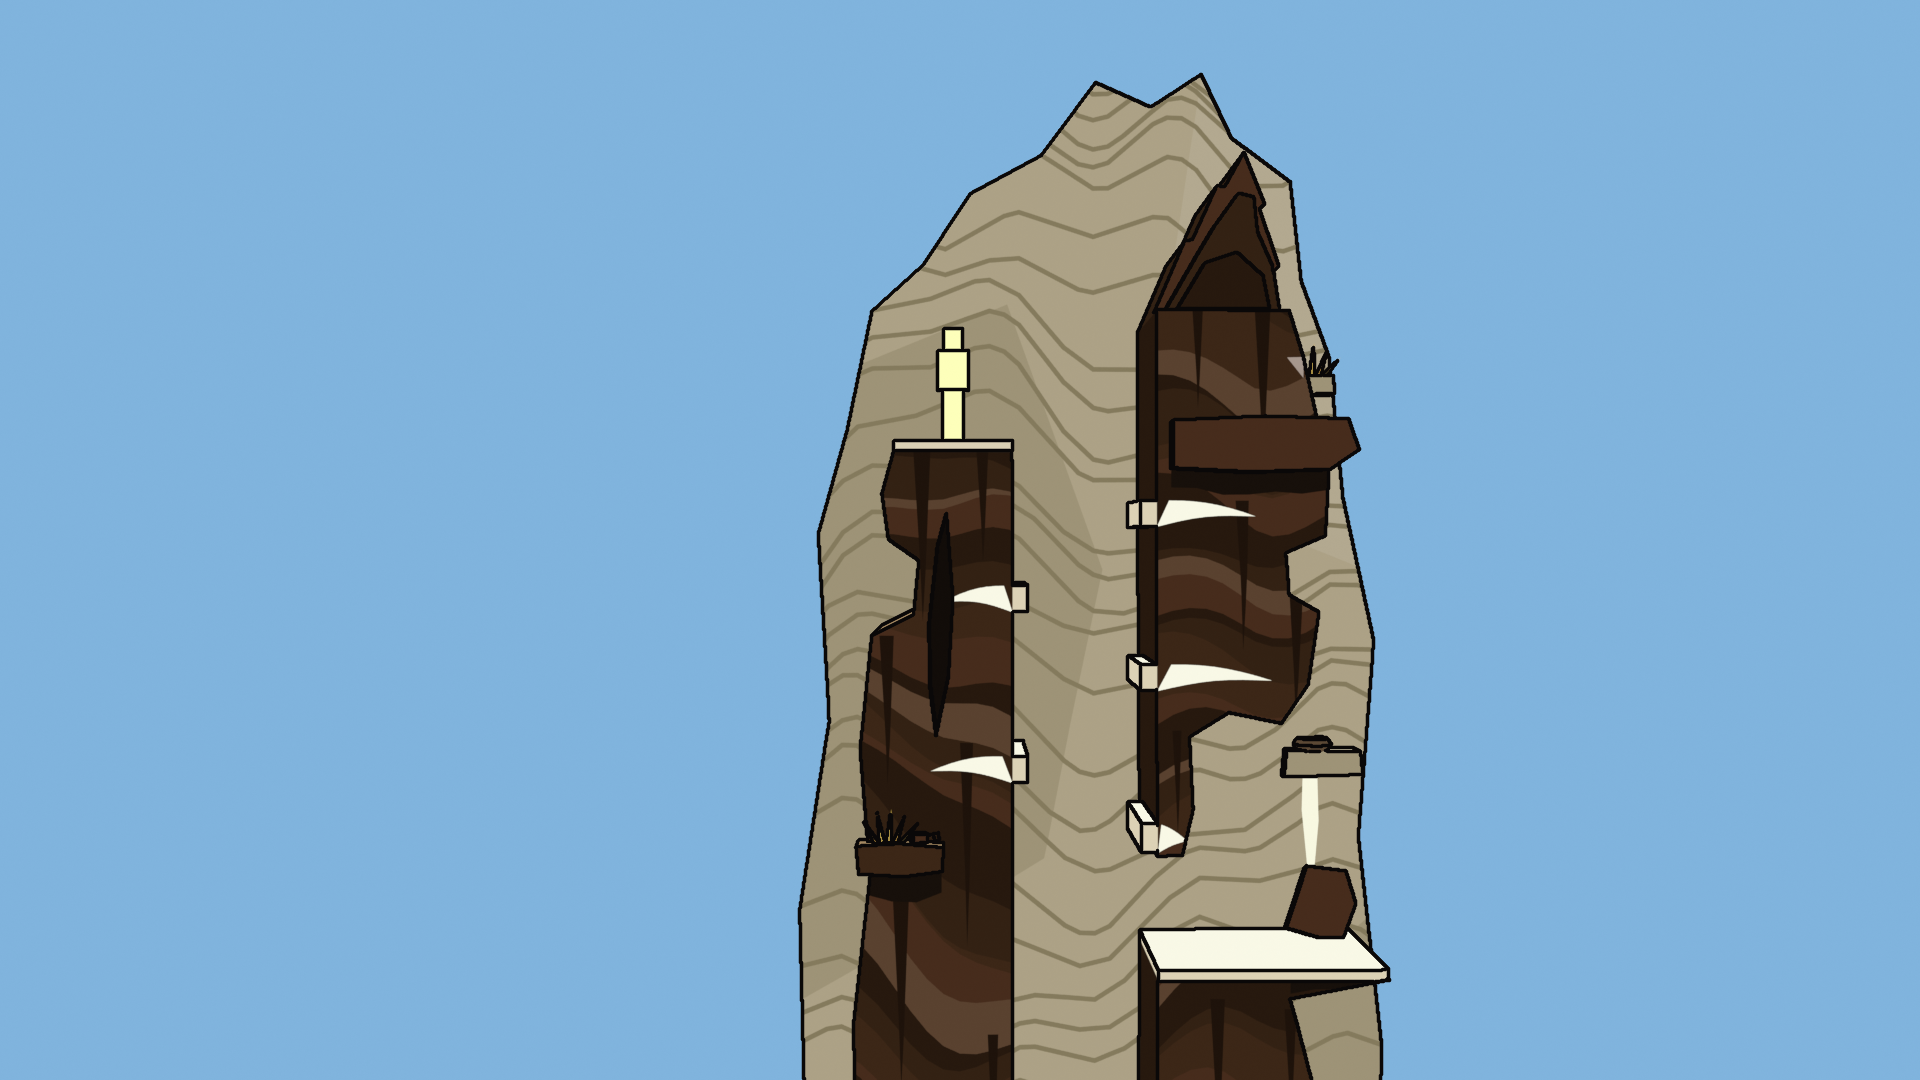
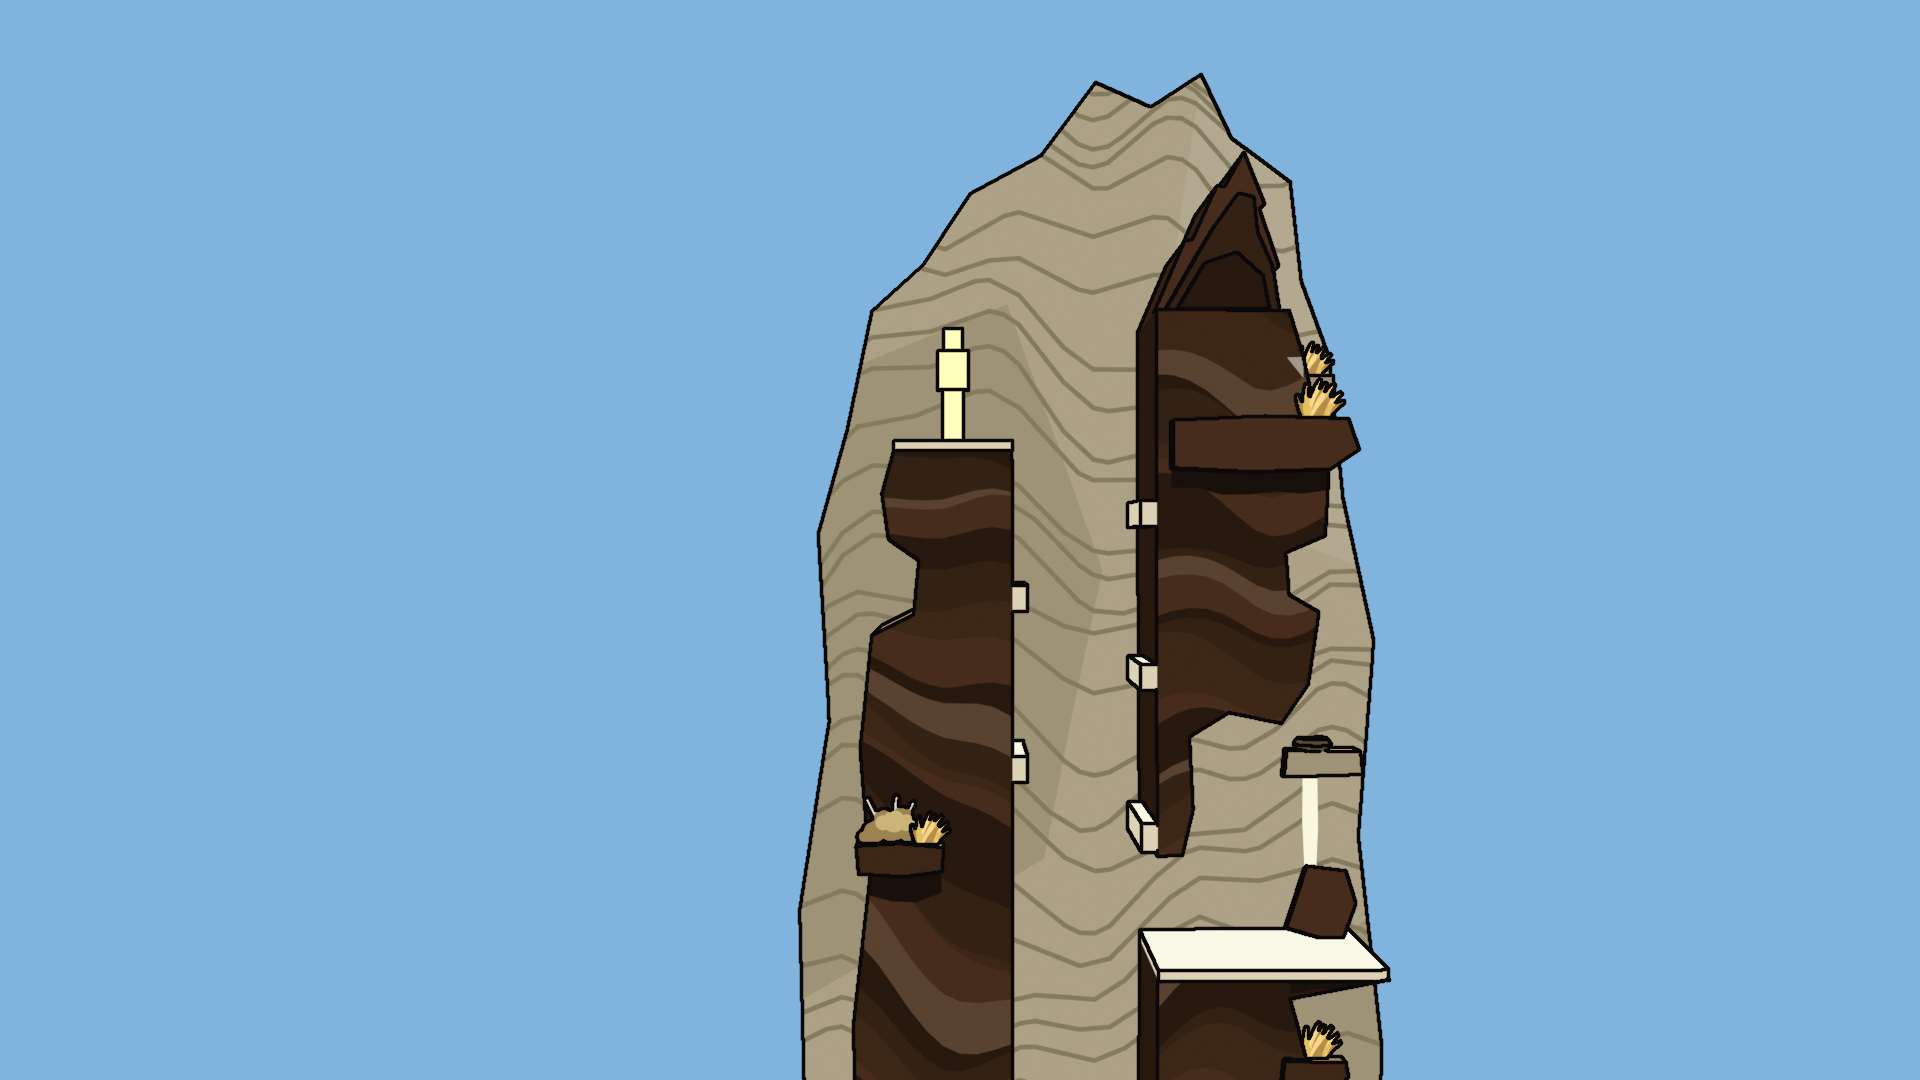
Peak design: the walls rule after Parker's words to thread A (no dark recess; small outcrops with each biome's own painted plants); the example's fourth round as the reference

diff --git a/docs/peak/playtest/design/ANSWERS.md b/docs/peak/playtest/design/ANSWERS.md
@@ -180,3 +180,5 @@ Asked one by one. His exact words where he typed them; "Picked" where he chose a
 Not asked; I take the designers' own answers unless he objects: on the cliffs, the town built the trail and the cableway, one frozen climber sits on the Balcón, flag poles stand behind the climb, a wind sock on the porch of 7.8, the tea cave is open at the front, the scaffold's legs come down behind Los Burros as struts. On the cableway: the frog is the last passenger in a parked gondola, no wavy wind lines where no wind pushes, no icicles on the high station, the zip line is a plain catch and ride. On the glacier: the frog's snow hole, the new serac grows bare and gets its snow last, canes with paper flags, the avalanche chute's two stones as today. On the storm ridge: lightning steel is pale blue-grey and the headwall's rust-orange rungs are never struck, rain leans with each wind band, a painted row of far towers, wind on the cabin's porch, torn paper ends behind Gendarmes, the balloon's neck solid, a broken rung swings back up. On the summit: ropes red, cream and jade, the tea frog hangs the paper and lays the marigolds, no wind on the tea shop's doorstep, a tall staff behind the bell frame for the paper.
 
 **On the walls example's second round, a little later the same night** (with a drawing over it circling the dark tapered streaks and the white wedge-shaped tails of the hold bands): "this is looking good but it does not need these random triangles", "just the painted lines look lovely", "but overall this is a very good direction". So: long wavy painted lines and bands, yes. Nothing painted that tapers to a point: no rain-streak wedges, no hold band that thins away across the face.
+
+**To thread A directly, on the walls example's third and fourth rounds (as thread A reported them to me):** with the fin's dark joint slot circled, "this looks MUCH better. Get rid of this part too so it all looks painted like that. I also love the little foreground out croppings, feel free to put little plants like the painted plants in the foreground of the Station had." And: "I mean you will want to make new ones for various biomes, but that is the style I mean. You don't have to re use the old one. But yea you got the overall look looking good, you are" (it ends there). To me afterwards: "the painted look is looking very nice". So: no dark recess cut into a painted face; small outcrops with plants are wanted; every biome gets its own flat painted plants in the station foreground plants' style.

diff --git a/docs/peak/playtest/design/BRIEF.md b/docs/peak/playtest/design/BRIEF.md
@@ -171,9 +171,19 @@ How a wall or a mass is made:
   triangles ... just the painted lines look lovely").** Nothing painted tapers to a point:
   no rain streak that narrows down the face, no stain shaped like a wedge, no hold band
   that thins away across the wall. Lines and bands only.
-- **A few big breaks are real shape,** and only those get ink: one overhang with a painted
-  shadow under it, one deep recess or opened joint, one ledge with something on it, one
-  leaning slab or fallen block. They sit inside the game's frame, not below it.
+- **A few big breaks are real shape,** and only those get ink: an overhang with a painted
+  shadow under it, a ledge with something on it, a leaning slab or fallen block. They sit
+  inside the game's frame, not below it. **No dark slot or recess cut into a face**
+  (Parker, of the example's opened joint: "Get rid of this part too so it all looks painted
+  like that").
+- **Little outcrops, with plants.** Parker: "I also love the little foreground out
+  croppings, feel free to put little plants like the painted plants in the foreground of
+  the Station had." So a wall keeps a few small outcrops standing out of it, and they carry
+  life: plants made for that biome, each one flat painted card (its parts flush colours on
+  one plane, so only its outline is inked), in the style of the station's foreground
+  plants. Of those plants he said: "you will want to make new ones for various biomes, but
+  that is the style I mean. You don't have to re use the old one." Each biome's sheet says
+  what grows on its walls.
 - **The outline is designed.** Away from the holds and the tops you stand on, the edge may
   move up to 0.8 m: it leans, tapers, is notched where a piece has gone, and has no long
   ruled level or upright edge. The holds, the standing tops and the faces of any gap you

diff --git a/docs/peak/playtest/design/SHEET_BRIEF.md b/docs/peak/playtest/design/SHEET_BRIEF.md
@@ -80,9 +80,19 @@ How a wall or a mass is made:
   triangles ... just the painted lines look lovely").** Nothing painted tapers to a point:
   no rain streak that narrows down the face, no stain shaped like a wedge, no hold band
   that thins away across the wall. Lines and bands only.
-- **A few big breaks are real shape,** and only those get ink: one overhang with a painted
-  shadow under it, one deep recess or opened joint, one ledge with something on it, one
-  leaning slab or fallen block. They sit inside the game's frame, not below it.
+- **A few big breaks are real shape,** and only those get ink: an overhang with a painted
+  shadow under it, a ledge with something on it, a leaning slab or fallen block. They sit
+  inside the game's frame, not below it. **No dark slot or recess cut into a face**
+  (Parker, of the example's opened joint: "Get rid of this part too so it all looks painted
+  like that").
+- **Little outcrops, with plants.** Parker: "I also love the little foreground out
+  croppings, feel free to put little plants like the painted plants in the foreground of
+  the Station had." So a wall keeps a few small outcrops standing out of it, and they carry
+  life: plants made for that biome, each one flat painted card (its parts flush colours on
+  one plane, so only its outline is inked), in the style of the station's foreground
+  plants. Of those plants he said: "you will want to make new ones for various biomes, but
+  that is the style I mean. You don't have to re use the old one." Each biome's sheet says
+  what grows on its walls.
 - **The outline is designed.** Away from the holds and the tops you stand on, the edge may
   move up to 0.8 m: it leans, tapers, is notched where a piece has gone, and has no long
   ruled level or upright edge. The holds, the standing tops and the faces of any gap you
